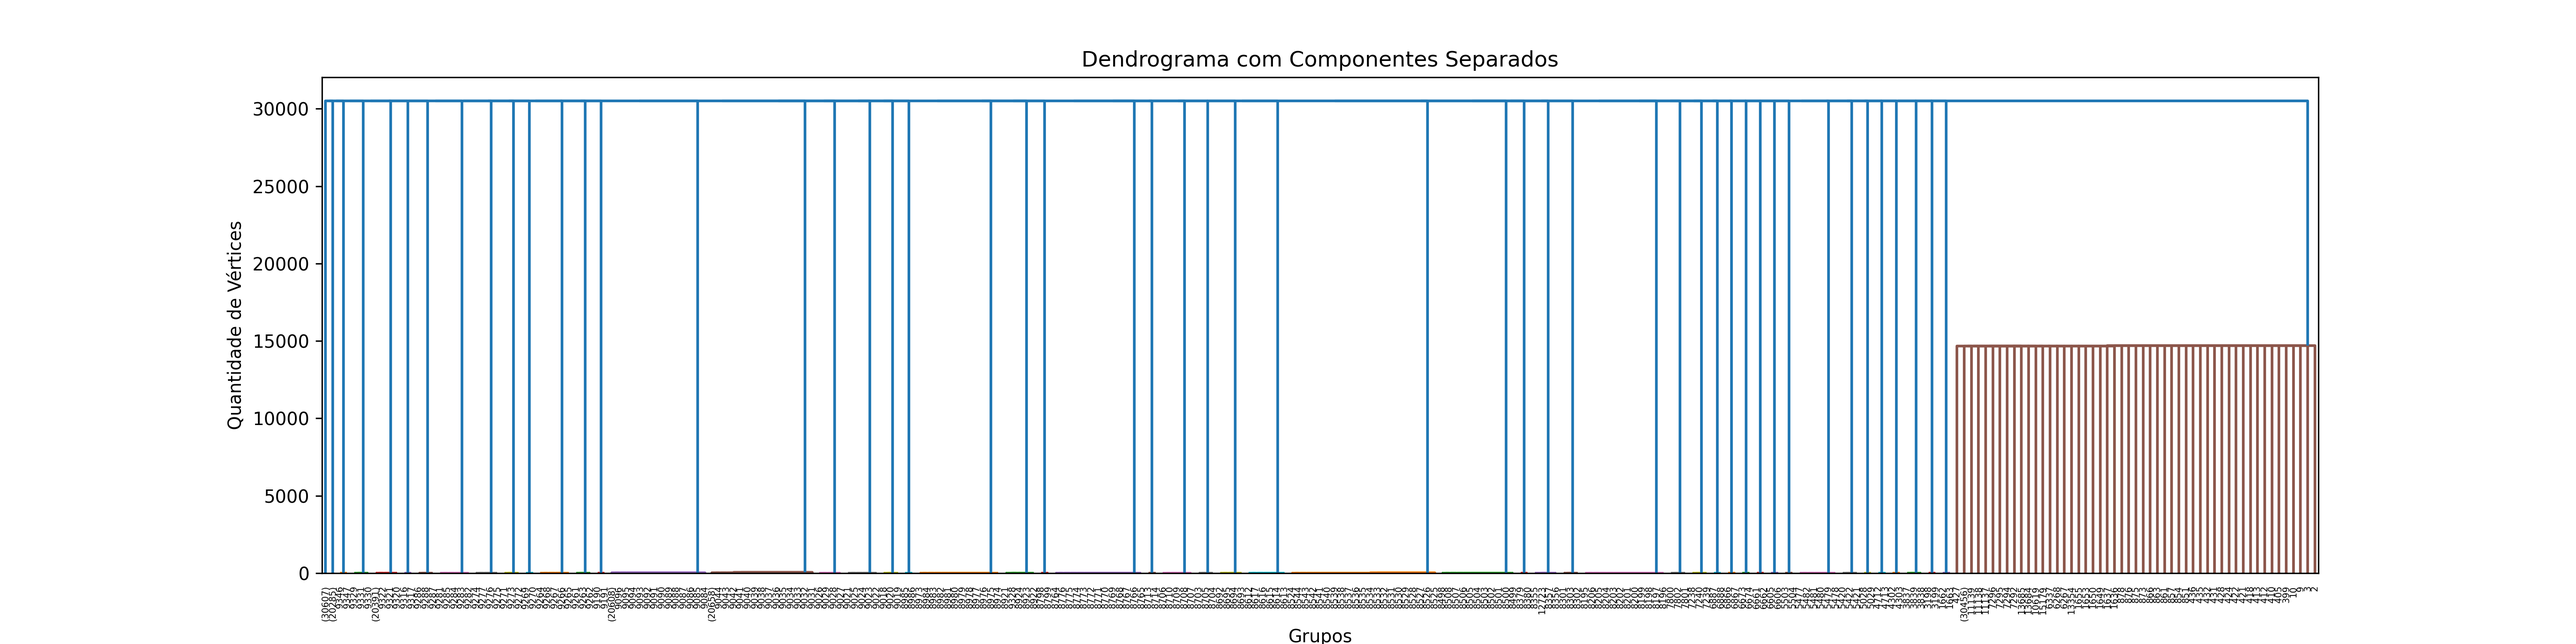
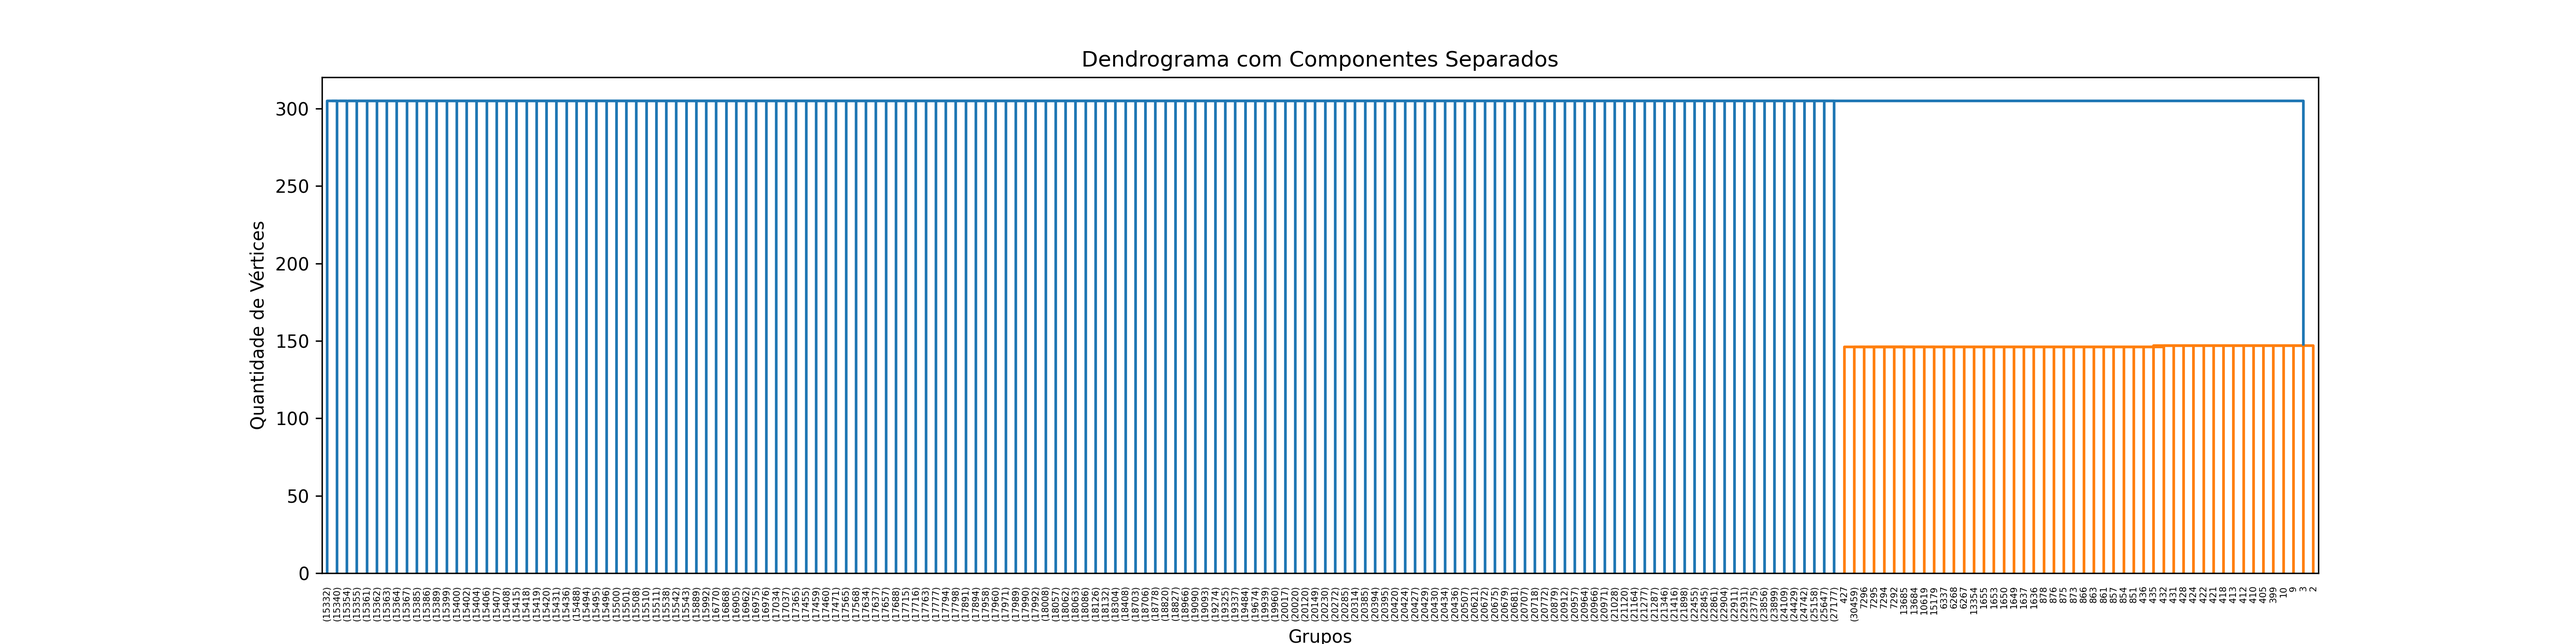
organiza pastas

Changed region(s): [[0.0935, 0.1533, 0.9038, 1.0]]

diff --git a/analise/remove_betweenness/dendogram.py b/analise/remove_betweenness/dendogram.py
@@ -3,28 +3,20 @@ from scipy.cluster.hierarchy import dendrogram
 import matplotlib.pyplot as plt
 import sys
 
-# Increase the recursion limit to a higher value
-sys.setrecursionlimit(40000)  # You can adjust this number as needed
-
-# A matriz de ligação Z deve ter índices únicos para novos clusters.
-# Índices 0, 1, 2, 3, 4 e 5 representam os nós iniciais individuais.
-# A partir do índice 6, representamos novos clusters formados pelas uniões.
+sys.setrecursionlimit(40000)
 
 Z = []
 
 n = int(input())
 for i in range(n):
     a, b, c, d = input().split()
-    Z.append([int(a), int(b), float(c), int(d)])
+    Z.append([int(a), int(b), float(int(c)), int(d)])
 
 Z = np.array(Z)
 
-# Os índices dos novos clusters (6, 7, 8, etc.) devem ser únicos e aumentam conforme
-# unimos os clusters anteriores.
-
 # Plotando o dendrograma
 plt.figure(figsize=(20, 5))
-dendrogram(Z, p = 50, truncate_mode = 'level')
+dendrogram(Z, p = 200, truncate_mode = 'lastp')
 
 plt.title("Dendrograma com Componentes Separados")
 plt.xlabel("Grupos")

diff --git a/analise/remove_betweenness/plot_rem_edge.py b/analise/remove_betweenness/plot_rem_edge.py
@@ -1,0 +1,15 @@
+import matplotlib.pyplot as plt
+import numpy as np
+from matplotlib.ticker import MaxNLocator
+
+path = 'clustering'
+data = np.loadtxt(path)
+
+plt.hist(data, bins=20, edgecolor='black')
+plt.xlabel('Valor')
+plt.ylabel('Frequência')
+plt.title('Distribuição dos Coeficientes de Clusterização')
+plt.yscale('log')
+
+plt.savefig('./plots/clustering_plot.png', format='png', dpi=300)
+plt.close()
